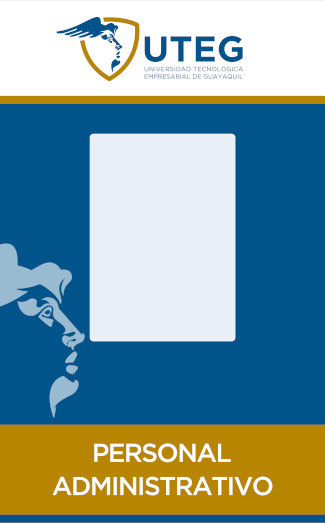
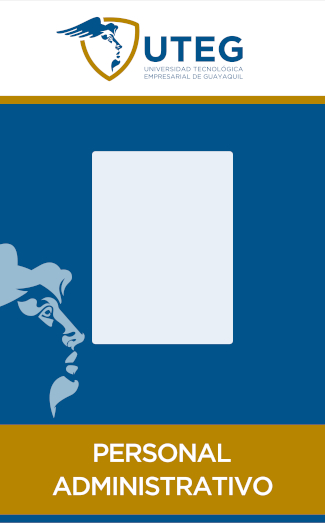
Se actualiza codigo fuente para la funcionalidad de credencial estudiante

Changed region(s): [[0.2462, 0.2447, 0.7385, 0.673]]

diff --git a/controllers/PerfilController.php b/controllers/PerfilController.php
@@ -32,8 +32,8 @@ use yii\helpers\VarDumper;
  */
 class PerfilController extends \app\components\CController {
 
-    protected $widthImg = "147";
-    protected $heightImg = "209";
+    protected $widthImg = "141";
+    protected $heightImg = "193";
 
     public function actionUpdate() {
         $mod_areapais = new Pais();
@@ -358,15 +358,17 @@ class PerfilController extends \app\components\CController {
             $isEstudiante = false;
             $isDocente = false;
             $images_dir = 'rounded_corners';
-            $corner_radius = 20; // El radio de la esquina redondeada se establece en 20px por defecto
+            $corner_radius = 10; // El radio de la esquina redondeada se establece en 20px por defecto
             $foto_archivo = Yii::$app->basePath . Yii::$app->params["documentFolder"] . "ficha/" . $idper . "/doc_foto_per_" . $idper . ".jpeg";
             $bg_credencial = Yii::$app->basePath . Yii::$app->params["documentFolder"] . "Credencial/credencial-admin-front.jpeg";
             $bb_credencial = Yii::$app->basePath . Yii::$app->params["documentFolder"] . "Credencial/credencial-admin-back.jpeg";
-            $marginPhoto = 24; // Para credenciales Administrativas
+            $marginPhoto = 14; // Para credenciales Administrativas
             $image_rounded = Yii::$app->basePath . Yii::$app->params["documentFolder"] . "Credencial/$images_dir/rounded_corner_".$corner_radius."px.b.png";
+            $image_rounded2 = NULL;
             if($modelEstudiante){
-                $marginPhoto = 31; // Para credenciales Estudiantes
+                $marginPhoto = 14; // Para credenciales Estudiantes
                 $image_rounded = Yii::$app->basePath . Yii::$app->params["documentFolder"] . "Credencial/$images_dir/rounded_corner_".$corner_radius."px.w.png";
+                $image_rounded2 = Yii::$app->basePath . Yii::$app->params["documentFolder"] . "Credencial/$images_dir/rounded_corner_".$corner_radius."px.lb.png";
                 $bg_credencial = Yii::$app->basePath . Yii::$app->params["documentFolder"] . "Credencial/credencial-estudiante-front.jpeg";
                 $bb_credencial = Yii::$app->basePath . Yii::$app->params["documentFolder"] . "Credencial/credencial-estudiante-back.jpeg";
                 $isEstudiante = true;
@@ -391,35 +393,16 @@ class PerfilController extends \app\components\CController {
                 $bottomleft = true; // La esquina inferior izquierda se muestra por defecto
                 $bottomright = true; // La esquina inferior derecha se muestra por defecto
                 $topright = true; // La esquina superior derecha se muestra por defecto
+                $white = ImageColorAllocate($image,255,255,255);
+                $black = ImageColorAllocate($image,0,0,0);
+
                 $corner_source = imagecreatefrompng($image_rounded);
                 $corner_width = imagesx($corner_source);  
                 $corner_height = imagesy($corner_source);  
                 $corner_resized = ImageCreateTrueColor($corner_radius, $corner_radius);
                 ImageCopyResampled($corner_resized, $corner_source, 0, 0, 0, 0, $corner_radius, $corner_radius, $corner_width, $corner_height);
                 $corner_width = imagesx($corner_resized);  
-                $corner_height = imagesy($corner_resized);  
-                //$image = imagecreatetruecolor($corner_width, $corner_height);  
-                //$image = imagecreatefromjpeg($foto_archivo); //image 147 x 209 
-                //$size = getimagesize($foto_archivo);
-                $white = ImageColorAllocate($image,255,255,255);
-                $black = ImageColorAllocate($image,0,0,0);
-
-                // Esquina superior izquierda
-                if ($topleft == true) {
-                    $dest_x = 0;  
-                    $dest_y = 0;  
-                    imagecolortransparent($corner_resized, $black); 
-                    imagecopymerge($image, $corner_resized, $dest_x, $dest_y, 0, 0, $corner_width, $corner_height, 100);
-                } 
-
-                // Esquina inferior izquierda
-                if ($bottomleft == true) {
-                    $dest_x = 0;  
-                    $dest_y = $size[1] - $corner_height; 
-                    $rotated = imagerotate($corner_resized, 90, 0);
-                    imagecolortransparent($rotated, $black); 
-                    imagecopymerge($image, $rotated, $dest_x, $dest_y, 0, 0, $corner_width, $corner_height, 100);  
-                }
+                $corner_height = imagesy($corner_resized);
 
                 // Esquina inferior derecha
                 if ($bottomright == true) {
@@ -430,6 +413,22 @@ class PerfilController extends \app\components\CController {
                     imagecopymerge($image, $rotated, $dest_x, $dest_y, 0, 0, $corner_width, $corner_height, 100);  
                 }
 
+                // Esquina inferior izquierda
+                if ($bottomleft == true) {
+                    $dest_x = 0;  
+                    $dest_y = $size[1] - $corner_height; 
+                    $rotated = imagerotate($corner_resized, 90, 0);
+                    imagecolortransparent($rotated, $black); 
+                    imagecopymerge($image, $rotated, $dest_x, $dest_y, 0, 0, $corner_width, $corner_height, 100);  
+                }
+
+                if(isset($image_rounded2)){
+                    $corner_source = imagecreatefrompng($image_rounded2);
+                    ImageCopyResampled($corner_resized, $corner_source, 0, 0, 0, 0, $corner_radius, $corner_radius, $corner_width, $corner_height);
+                    $corner_width = imagesx($corner_resized);  
+                    $corner_height = imagesy($corner_resized);
+                }
+
                 // Esquina superior derecha
                 if ($topright == true) {
                     $dest_x = $size[0] - $corner_width;  
@@ -438,6 +437,14 @@ class PerfilController extends \app\components\CController {
                     imagecolortransparent($rotated, $black); 
                     imagecopymerge($image, $rotated, $dest_x, $dest_y, 0, 0, $corner_width, $corner_height, 100);  
                 }
+
+                // Esquina superior izquierda
+                if ($topleft == true) {
+                    $dest_x = 0;  
+                    $dest_y = 0;  
+                    imagecolortransparent($corner_resized, $black); 
+                    imagecopymerge($image, $corner_resized, $dest_x, $dest_y, 0, 0, $corner_width, $corner_height, 100);
+                } 
 
                 // Rotar la imagen
                 $image_rn = imagerotate($image, $angle, $white);
@@ -458,7 +465,7 @@ class PerfilController extends \app\components\CController {
                 $font_size = 11;
                 $angulo = 0;
                 $posX = 12;
-                $posY = 370;
+                $posY = 385;
 
                 // Get image dimensions
                 $width = imagesx($im1);
@@ -490,7 +497,7 @@ class PerfilController extends \app\components\CController {
                     $matricula = $modelEstudiante->est_matricula;
                 }
 
-                // Get size of text
+                // Get size of text /// MUESTRA EL NOMBRE
                 list($left, $bottom, $right, , , $top) = imageftbbox($font_size, $angulo, $ttf_font, strtoupper($nombre));
                 // Determine offset of text
                 $left_offset = ($right - $left) / 2;
@@ -526,7 +533,7 @@ class PerfilController extends \app\components\CController {
                     $x = $centerX - $left_offset;
                     $y = $centerY - $top_offset;
                     // Add text to image
-                    imagefttext($im1, $font_size, $angulo, $x, 390, $colorB, $ttf_light, $carrera);
+                    imagefttext($im1, $font_size, $angulo, $x, 410, $colorB, $ttf_light, $carrera);
                 
                 
                     // Get size of text
@@ -538,7 +545,7 @@ class PerfilController extends \app\components\CController {
                     $x = $centerX - $left_offset;
                     $y = $centerY - $top_offset;
                     // Add text to image
-                    imagefttext($im1, $font_size, $angle, $x, 410, $colorB, $ttf_light, $modalidad);
+                    imagefttext($im1, $font_size, $angle, $x, 430, $colorB, $ttf_light, $modalidad);
 
                     // Periodo
                     $periodo = date("Y") . " - " . ( 1 + date("Y"));
@@ -562,6 +569,7 @@ class PerfilController extends \app\components\CController {
                 imagepng($im1, $tempFile);
                 imagedestroy($im1);
                 imagedestroy($image_rn);
+                
                 $front_file = file_get_contents($tempFile);
                 $back_file = file_get_contents($bb_credencial);
                 Utilities::removeTemporalFile($tempFile);

diff --git a/controllers/SiteController.php b/controllers/SiteController.php
@@ -25,8 +25,8 @@ use yii\base\Exception;
 
 class SiteController extends CController {
 
-    protected $widthImg = "147";
-    protected $heightImg = "209";
+    protected $widthImg = "141";
+    protected $heightImg = "193";
 
     /**
      * @inheritdoc
@@ -592,15 +592,17 @@ class SiteController extends CController {
         $isEstudiante = false;
         $isDocente = false;
         $images_dir = 'rounded_corners';
-        $corner_radius = 20; // El radio de la esquina redondeada se establece en 20px por defecto
+        $corner_radius = 10; // El radio de la esquina redondeada se establece en 20px por defecto
         $foto_archivo = Yii::$app->basePath . Yii::$app->params["documentFolder"] . "ficha/" . $idper . "/doc_foto_per_" . $idper . ".jpeg";
         $bg_credencial = Yii::$app->basePath . Yii::$app->params["documentFolder"] . "Credencial/credencial-admin-front.jpeg";
         $bb_credencial = Yii::$app->basePath . Yii::$app->params["documentFolder"] . "Credencial/credencial-admin-back.jpeg";
-        $marginPhoto = 24; // Para credenciales Administrativas
+        $marginPhoto = 14; // Para credenciales Administrativas
         $image_rounded = Yii::$app->basePath . Yii::$app->params["documentFolder"] . "Credencial/$images_dir/rounded_corner_".$corner_radius."px.b.png";
+        $image_rounded2 = NULL;
         if($modelEstudiante){
-            $marginPhoto = 31; // Para credenciales Estudiantes
+            $marginPhoto = 14; // Para credenciales Estudiantes
             $image_rounded = Yii::$app->basePath . Yii::$app->params["documentFolder"] . "Credencial/$images_dir/rounded_corner_".$corner_radius."px.w.png";
+            $image_rounded2 = Yii::$app->basePath . Yii::$app->params["documentFolder"] . "Credencial/$images_dir/rounded_corner_".$corner_radius."px.lb.png";
             $bg_credencial = Yii::$app->basePath . Yii::$app->params["documentFolder"] . "Credencial/credencial-estudiante-front.jpeg";
             $bb_credencial = Yii::$app->basePath . Yii::$app->params["documentFolder"] . "Credencial/credencial-estudiante-back.jpeg";
             $isEstudiante = true;
@@ -625,35 +627,15 @@ class SiteController extends CController {
             $bottomleft = true; // La esquina inferior izquierda se muestra por defecto
             $bottomright = true; // La esquina inferior derecha se muestra por defecto
             $topright = true; // La esquina superior derecha se muestra por defecto
+            $white = ImageColorAllocate($image,255,255,255);
+            $black = ImageColorAllocate($image,0,0,0);
             $corner_source = imagecreatefrompng($image_rounded);
             $corner_width = imagesx($corner_source);  
             $corner_height = imagesy($corner_source);  
             $corner_resized = ImageCreateTrueColor($corner_radius, $corner_radius);
             ImageCopyResampled($corner_resized, $corner_source, 0, 0, 0, 0, $corner_radius, $corner_radius, $corner_width, $corner_height);
             $corner_width = imagesx($corner_resized);  
-            $corner_height = imagesy($corner_resized);  
-            //$image = imagecreatetruecolor($corner_width, $corner_height);  
-            //$image = imagecreatefromjpeg($foto_archivo); //image 147 x 209 
-            //$size = getimagesize($foto_archivo);
-            $white = ImageColorAllocate($image,255,255,255);
-            $black = ImageColorAllocate($image,0,0,0);
-
-            // Esquina superior izquierda
-            if ($topleft == true) {
-                $dest_x = 0;  
-                $dest_y = 0;  
-                imagecolortransparent($corner_resized, $black); 
-                imagecopymerge($image, $corner_resized, $dest_x, $dest_y, 0, 0, $corner_width, $corner_height, 100);
-            } 
-
-            // Esquina inferior izquierda
-            if ($bottomleft == true) {
-                $dest_x = 0;  
-                $dest_y = $size[1] - $corner_height; 
-                $rotated = imagerotate($corner_resized, 90, 0);
-                imagecolortransparent($rotated, $black); 
-                imagecopymerge($image, $rotated, $dest_x, $dest_y, 0, 0, $corner_width, $corner_height, 100);  
-            }
+            $corner_height = imagesy($corner_resized);
 
             // Esquina inferior derecha
             if ($bottomright == true) {
@@ -664,6 +646,22 @@ class SiteController extends CController {
                 imagecopymerge($image, $rotated, $dest_x, $dest_y, 0, 0, $corner_width, $corner_height, 100);  
             }
 
+            // Esquina inferior izquierda
+            if ($bottomleft == true) {
+                $dest_x = 0;  
+                $dest_y = $size[1] - $corner_height; 
+                $rotated = imagerotate($corner_resized, 90, 0);
+                imagecolortransparent($rotated, $black); 
+                imagecopymerge($image, $rotated, $dest_x, $dest_y, 0, 0, $corner_width, $corner_height, 100);  
+            }
+
+            if(isset($image_rounded2)){
+                $corner_source = imagecreatefrompng($image_rounded2);
+                ImageCopyResampled($corner_resized, $corner_source, 0, 0, 0, 0, $corner_radius, $corner_radius, $corner_width, $corner_height);
+                $corner_width = imagesx($corner_resized);  
+                $corner_height = imagesy($corner_resized);
+            }
+
             // Esquina superior derecha
             if ($topright == true) {
                 $dest_x = $size[0] - $corner_width;  
@@ -672,6 +670,14 @@ class SiteController extends CController {
                 imagecolortransparent($rotated, $black); 
                 imagecopymerge($image, $rotated, $dest_x, $dest_y, 0, 0, $corner_width, $corner_height, 100);  
             }
+
+            // Esquina superior izquierda
+            if ($topleft == true) {
+                $dest_x = 0;  
+                $dest_y = 0;  
+                imagecolortransparent($corner_resized, $black); 
+                imagecopymerge($image, $corner_resized, $dest_x, $dest_y, 0, 0, $corner_width, $corner_height, 100);
+            } 
 
             // Rotar la imagen
             $image_rn = imagerotate($image, $angle, $white);
@@ -692,7 +698,7 @@ class SiteController extends CController {
             $font_size = 11;
             $angulo = 0;
             $posX = 12;
-            $posY = 370;
+            $posY = 385;
 
             // Get image dimensions
             $width = imagesx($im1);
@@ -760,7 +766,7 @@ class SiteController extends CController {
                 $x = $centerX - $left_offset;
                 $y = $centerY - $top_offset;
                 // Add text to image
-                imagefttext($im1, $font_size, $angulo, $x, 390, $colorB, $ttf_light, $carrera);
+                imagefttext($im1, $font_size, $angulo, $x, 410, $colorB, $ttf_light, $carrera);
             
             
                 // Get size of text 
@@ -772,7 +778,7 @@ class SiteController extends CController {
                 $x = $centerX - $left_offset;
                 $y = $centerY - $top_offset;
                 // Add text to image
-                imagefttext($im1, $font_size, $angle, $x, 410, $colorB, $ttf_light, $modalidad);
+                imagefttext($im1, $font_size, $angle, $x, 430, $colorB, $ttf_light, $modalidad);
 
                 // Periodo
                 $periodo = date("Y") . " - " . ( 1 + date("Y"));
